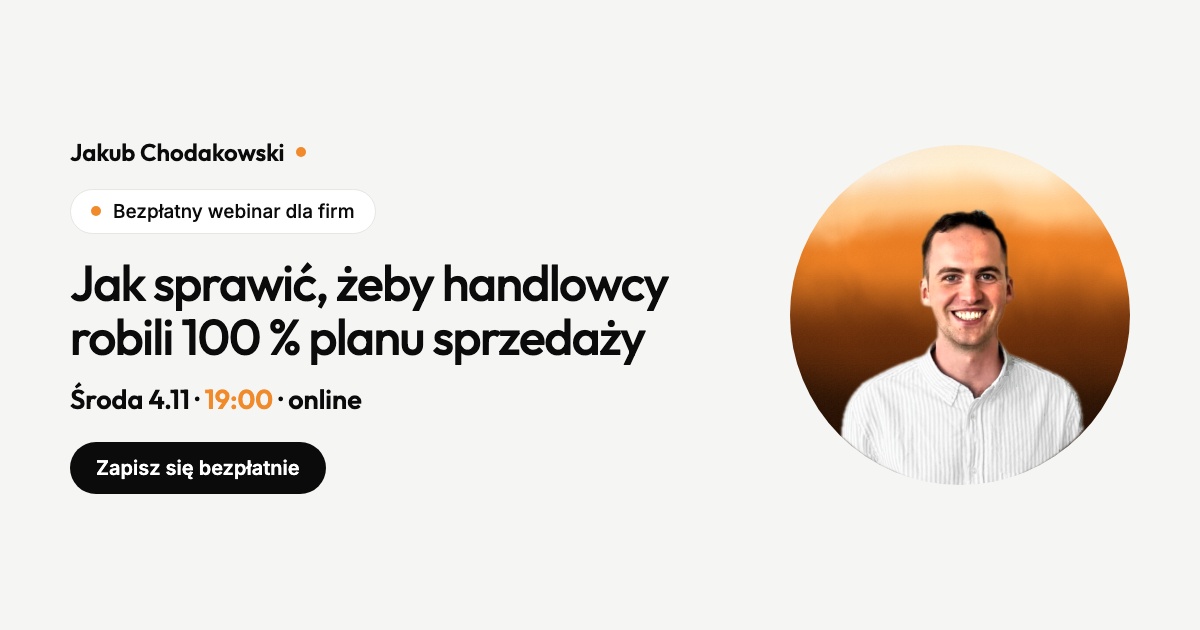
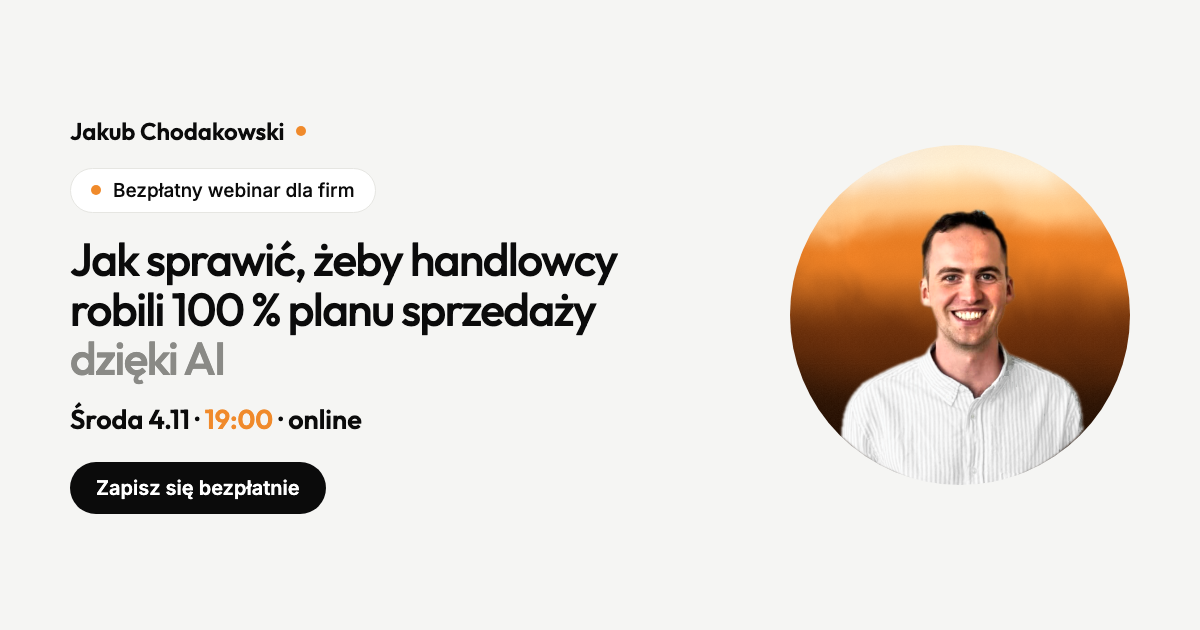
Webinar 27.10: tytuł + „dzięki AI”, podtytuł „bez szukania nowych handlowców”, OG

Changed region(s): [[0.0617, 0.3921, 0.555, 0.8143], [0.0617, 0.181, 0.3083, 0.3619]]

diff --git a/lib/bruno/webinar.ts b/lib/bruno/webinar.ts
@@ -17,9 +17,9 @@ export const WEBINAR = {
   godzina: "19:00",
   ics: "20261104T180000Z",
   icsKoniec: "20261104T190000Z",
-  tytul: "Jak sprawić, żeby handlowcy robili 100 % planu sprzedaży",
+  tytul: "Jak sprawić, żeby handlowcy robili 100 % planu sprzedaży dzięki AI", // 27.10 (USER_001): + „dzięki AI”
   /** Druga linia pod tytułem (szara). */
-  podtytul: "bez szukania nowych i bez drogich szkoleń",
+  podtytul: "bez szukania nowych handlowców",
   // 27.10 (USER_001): link Zoom ustawiony przez USER_001.
   zoom: "https://us05web.zoom.us/j/81028613140?pwd=6DyIsCre9Ufkias6LaP8erbpvbSFZt.1",
   zoomId: "810 2861 3140",

diff --git a/components/bruno/webinar-lp.tsx b/components/bruno/webinar-lp.tsx
@@ -42,7 +42,7 @@ const TEKSTY = {
   },
   firmy: {
     // 27.10 (USER_001): nowy temat dla właścicieli firm (decyzja 27.10). Tytuł i plan z lib/bruno/webinar.ts.
-    h1: "Jak sprawić, żeby handlowcy\nrobili 100\u00a0% planu sprzedaży",
+    h1: "Jak sprawić, żeby handlowcy\nrobili 100\u00a0% planu sprzedaży\ndzięki\u00a0AI",
     h1Szary: WEBINAR.podtytul,
     lead: "Wyszkol tych, których masz, zamiast szukać nowych. W 60 minut: 3 powody, dla których zespół nie robi planu, 4 sposoby na trening i jeden pokazany na żywo.",
     plan: WEBINAR.plan,
